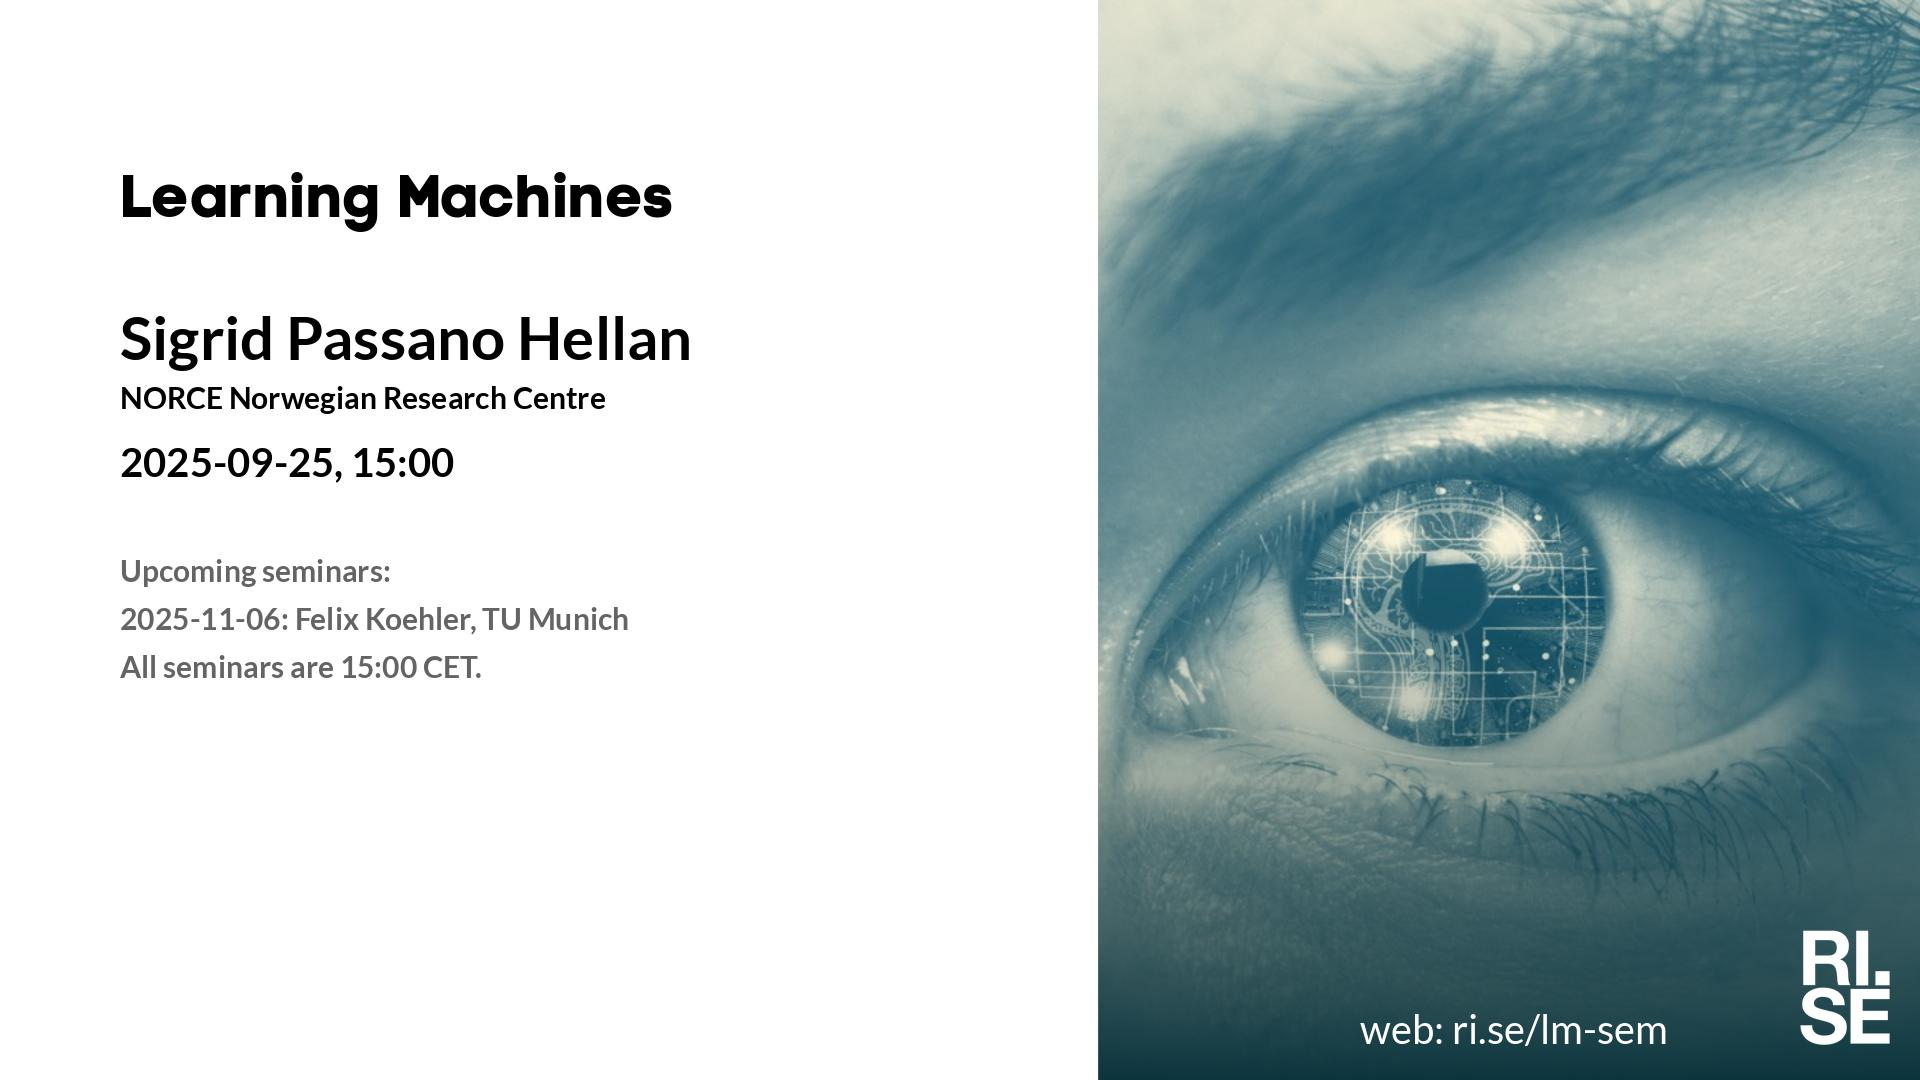
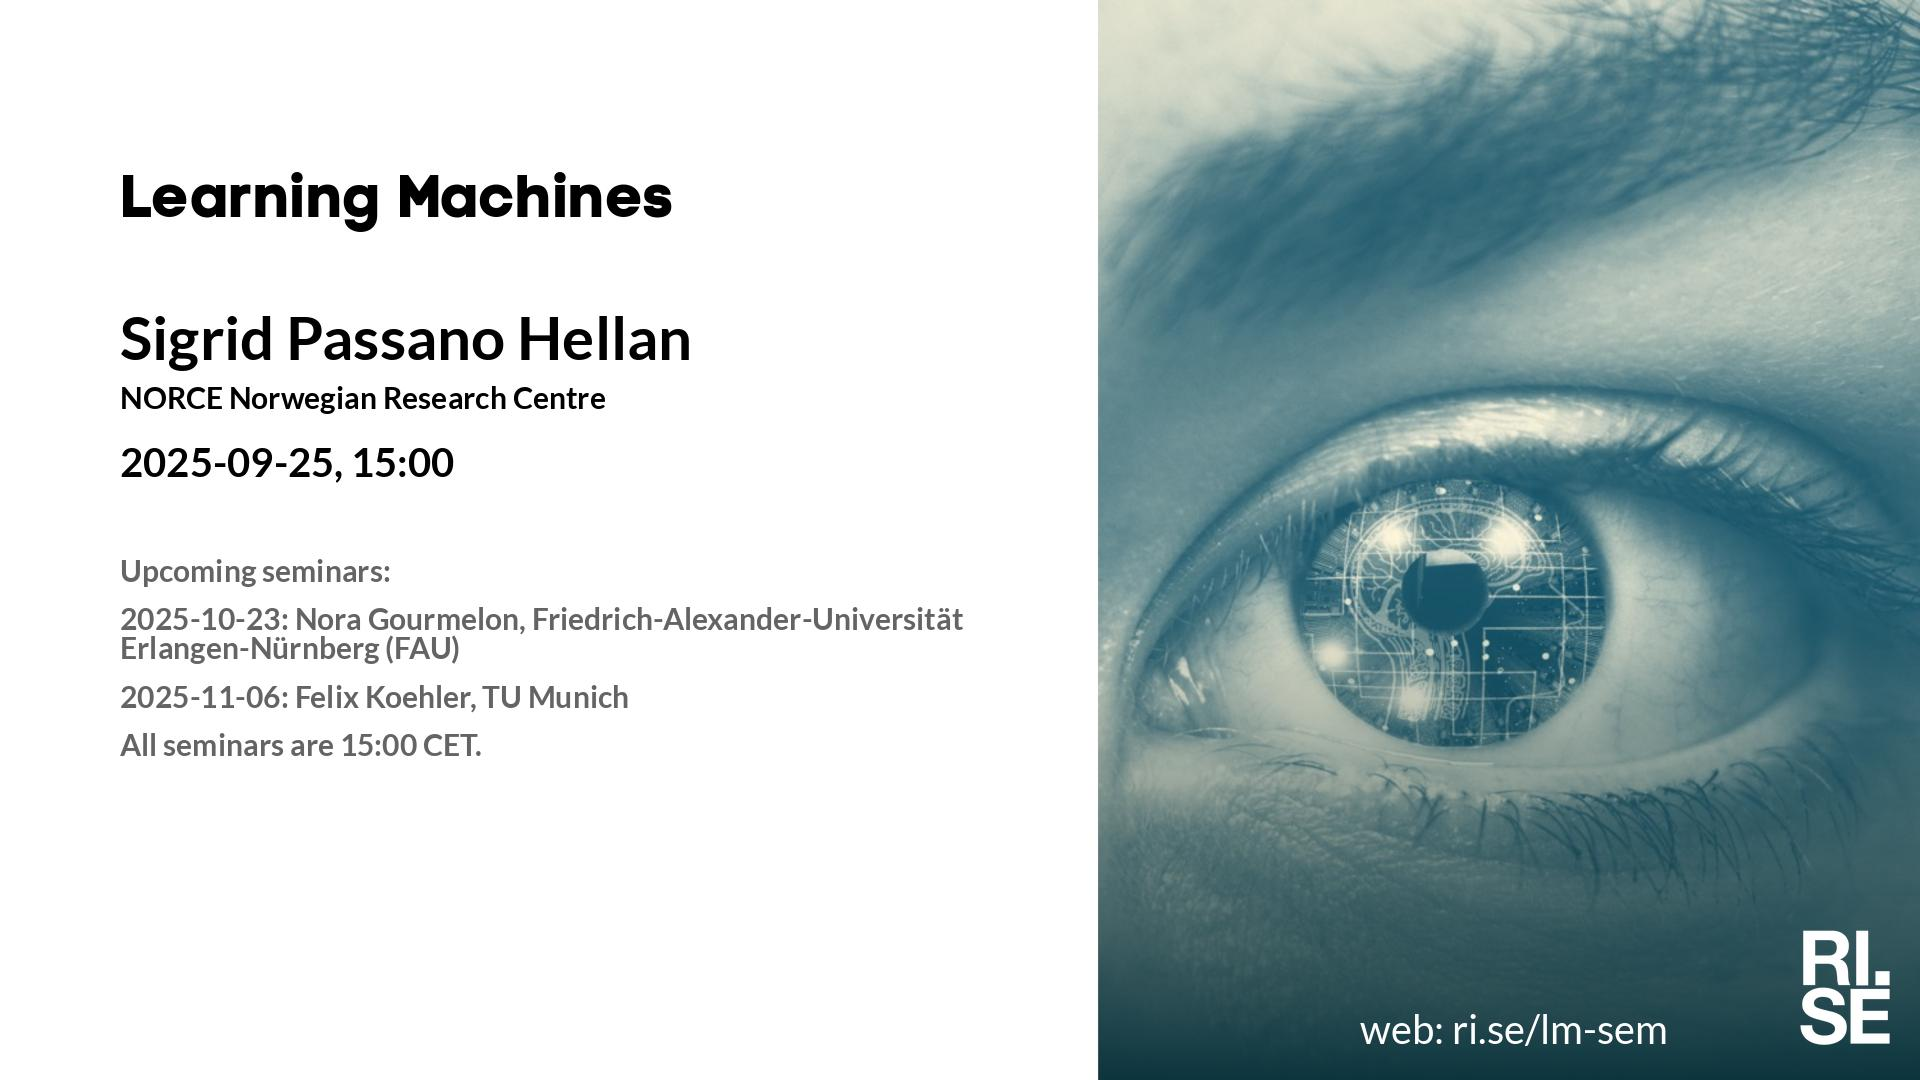
Updated plan on web site.

Changed region(s): [[0.0625, 0.55, 0.5, 0.7028]]

diff --git a/lm/2025.md b/lm/2025.md
@@ -36,7 +36,7 @@ table {border-collapse: collapse;}
 | <span style="color:grey"> 2025-09-11 </span> | <span style="color:grey"> Natalie E. ? </span> | <span style="color:grey">  </span> | <span style="color:grey">  </span> | <span style="color:grey">  </span> | <span style="color:grey">  </span> | <span style="color:grey"> S~~TABP~~ </span> |
 |  2025-09-25  |  [Sigrid Passano Hellan, NORCE Norwegian Research Centre](2025-09-25.md)  |  [photo](2025-09-25-photo-sigrid-passano-hellan.jpg)  |  [social media ](2025-09-25-social-media-sigrid-passano-hellan.jpg)  |  [meeting backdrop ](2025-09-25-meeting-backdrop-sigrid-passano-hellan.jpg)  |  [youtube thumbnail ](2025-09-25-youtube-thumbnail-sigrid-passano-hellan.jpg)  |  S~~TA~~BP  |
 | <span style="color:purple"> 2025-10-09 </span> | <span style="color:purple"> *Up for grabs!!!* </span> | <span style="color:purple">  </span> | <span style="color:purple">  </span> | <span style="color:purple">  </span> | <span style="color:purple">  </span> | <span style="color:purple"> ~~STABP~~ </span> |
-| <span style="color:grey"> 2025-10-23 </span> | <span style="color:grey"> Nora G. ? </span> | <span style="color:grey">  </span> | <span style="color:grey">  </span> | <span style="color:grey">  </span> | <span style="color:grey">  </span> | <span style="color:grey"> ST~~ABP~~ </span> |
+|  2025-10-23  |  [Nora Gourmelon, Friedrich-Alexander-Universität Erlangen-Nürnberg (FAU)](2025-10-23.md)  |    |  [social media ](2025-10-23-social-media-nora-gourmelon.jpg)  |  [meeting backdrop ](2025-10-23-meeting-backdrop-nora-gourmelon.jpg)  |  [youtube thumbnail ](2025-10-23-youtube-thumbnail-nora-gourmelon.jpg)  |  ST~~ABP~~  |
 |  2025-11-06  |  [Felix Koehler, TU Munich](2025-11-06.md)  |  [photo](2025-11-06-photo-felix-koehler.jpg)  |  [social media ](2025-11-06-social-media-felix-koehler.jpg)  |  [meeting backdrop ](2025-11-06-meeting-backdrop-felix-koehler.jpg)  |  [youtube thumbnail ](2025-11-06-youtube-thumbnail-felix-koehler.jpg)  |  S~~TAB~~P  |
 | <span style="color:purple"> 2025-11-20 </span> | <span style="color:purple"> *Up for grabs!!!* </span> | <span style="color:purple">  </span> | <span style="color:purple">  </span> | <span style="color:purple">  </span> | <span style="color:purple">  </span> | <span style="color:purple"> ~~STABP~~ </span> |
 | <span style="color:purple"> 2025-12-04 </span> | <span style="color:purple"> *Up for grabs!!!* </span> | <span style="color:purple">  </span> | <span style="color:purple">  </span> | <span style="color:purple">  </span> | <span style="color:purple">  </span> | <span style="color:purple"> ~~STABP~~ </span> |

diff --git a/lm/index.md b/lm/index.md
@@ -36,7 +36,7 @@ table {border-collapse: collapse;}
 | <span style="color:grey"> 2025-09-11 </span> | <span style="color:grey"> Natalie E. ? </span> | <span style="color:grey">  </span> | <span style="color:grey">  </span> | <span style="color:grey">  </span> | <span style="color:grey">  </span> | <span style="color:grey"> S~~TABP~~ </span> |
 |  2025-09-25  |  [Sigrid Passano Hellan, NORCE Norwegian Research Centre](2025-09-25.md)  |  [photo](2025-09-25-photo-sigrid-passano-hellan.jpg)  |  [social media ](2025-09-25-social-media-sigrid-passano-hellan.jpg)  |  [meeting backdrop ](2025-09-25-meeting-backdrop-sigrid-passano-hellan.jpg)  |  [youtube thumbnail ](2025-09-25-youtube-thumbnail-sigrid-passano-hellan.jpg)  |  S~~TA~~BP  |
 | <span style="color:purple"> 2025-10-09 </span> | <span style="color:purple"> *Up for grabs!!!* </span> | <span style="color:purple">  </span> | <span style="color:purple">  </span> | <span style="color:purple">  </span> | <span style="color:purple">  </span> | <span style="color:purple"> ~~STABP~~ </span> |
-| <span style="color:grey"> 2025-10-23 </span> | <span style="color:grey"> Nora G. ? </span> | <span style="color:grey">  </span> | <span style="color:grey">  </span> | <span style="color:grey">  </span> | <span style="color:grey">  </span> | <span style="color:grey"> ST~~ABP~~ </span> |
+|  2025-10-23  |  [Nora Gourmelon, Friedrich-Alexander-Universität Erlangen-Nürnberg (FAU)](2025-10-23.md)  |    |  [social media ](2025-10-23-social-media-nora-gourmelon.jpg)  |  [meeting backdrop ](2025-10-23-meeting-backdrop-nora-gourmelon.jpg)  |  [youtube thumbnail ](2025-10-23-youtube-thumbnail-nora-gourmelon.jpg)  |  ST~~ABP~~  |
 |  2025-11-06  |  [Felix Koehler, TU Munich](2025-11-06.md)  |  [photo](2025-11-06-photo-felix-koehler.jpg)  |  [social media ](2025-11-06-social-media-felix-koehler.jpg)  |  [meeting backdrop ](2025-11-06-meeting-backdrop-felix-koehler.jpg)  |  [youtube thumbnail ](2025-11-06-youtube-thumbnail-felix-koehler.jpg)  |  S~~TAB~~P  |
 | <span style="color:purple"> 2025-11-20 </span> | <span style="color:purple"> *Up for grabs!!!* </span> | <span style="color:purple">  </span> | <span style="color:purple">  </span> | <span style="color:purple">  </span> | <span style="color:purple">  </span> | <span style="color:purple"> ~~STABP~~ </span> |
 | <span style="color:purple"> 2025-12-04 </span> | <span style="color:purple"> *Up for grabs!!!* </span> | <span style="color:purple">  </span> | <span style="color:purple">  </span> | <span style="color:purple">  </span> | <span style="color:purple">  </span> | <span style="color:purple"> ~~STABP~~ </span> |

diff --git a/lm/statistics-2025.md b/lm/statistics-2025.md
@@ -10,11 +10,11 @@ title: Learning Machines Statistics 2025
 
 
 
-## 18 speakers
+## 19 speakers
 
-Abdul Shaamala, Abdulhakim Abdi, Amal Nammouchi, Atakan Aral, Beici Liang, Benjamin Cretois, Felix Koehler, Ghjulia Sialelli, John Martinsson, Lily Xu, Markus Pettersson, María J. Molina, Newton Mwai Kinyanjui, Oriol Nieto, Oscar Täckström, Peter Dueben, Sherrie Wang, Sigrid Passano Hellan
+Abdul Shaamala, Abdulhakim Abdi, Amal Nammouchi, Atakan Aral, Beici Liang, Benjamin Cretois, Felix Koehler, Ghjulia Sialelli, John Martinsson, Lily Xu, Markus Pettersson, María J. Molina, Newton Mwai Kinyanjui, Nora Gourmelon, Oriol Nieto, Oscar Täckström, Peter Dueben, Sherrie Wang, Sigrid Passano Hellan
 
-## 17 affiliations
+## 18 affiliations
 
-Adobe, Chalmers University of Technology, Columbia University, ETH Zurich, Epidemic sound, European Centre for Medium-Range Weather Forecasts, Karlstad University and AfriClimate AI, Lund University, MIT, NORCE Norwegian Research Centre, Norwegian Institute for Nature Research, Queensland University of Technology, RISE and Lund University, Sana Labs, TU Munich, University of Maryland, University of Vienna
+Adobe, Chalmers University of Technology, Columbia University, ETH Zurich, Epidemic sound, European Centre for Medium-Range Weather Forecasts, Friedrich-Alexander-Universität Erlangen-Nürnberg (FAU), Karlstad University and AfriClimate AI, Lund University, MIT, NORCE Norwegian Research Centre, Norwegian Institute for Nature Research, Queensland University of Technology, RISE and Lund University, Sana Labs, TU Munich, University of Maryland, University of Vienna
 

diff --git a/lm/2025-10-23.md b/lm/2025-10-23.md
@@ -1,0 +1,30 @@
+---
+layout: default
+metatags: "<meta name=\"robots\" content=\"noindex,nofollow\" />"
+---
+ 
+Welcome to this week's Learning Machines seminar.
+
+**Title:** Self-supervised pre-training for glacier calving front extraction from synthetic aperture radar imagery
+
+**Speaker:** Nora Gourmelon, Friedrich-Alexander-Universität Erlangen-Nürnberg (FAU)
+
+**Abstract:** N/A
+
+**About the speaker:** N/A
+
+**Location:** This is an online seminar. Connect using Zoom.
+
+**Date:** 2025-10-23 15:00
+
+**Zoom link:** [https://rise.zoom.us/j/69691371971?pwd=waoqEp3CTaUIf12qGJH3phZ0nzk6Oa.1](https://rise.zoom.us/j/69691371971?pwd=waoqEp3CTaUIf12qGJH3phZ0nzk6Oa.1)
+
+**Upcoming seminars:**
+
+* 2025-11-06: Felix Koehler, TU Munich
+* All seminars are 15:00 CET.
+
+More information and coming seminars: [https://ri.se/lm-sem](https://ri.se/lm-sem)
+
+-- The Learning Machines Team
+

diff --git a/lm/2025-09-25.md b/lm/2025-09-25.md
@@ -21,6 +21,7 @@ Welcome to this week's Learning Machines seminar.
 
 **Upcoming seminars:**
 
+* 2025-10-23: Nora Gourmelon, Friedrich-Alexander-Universität Erlangen-Nürnberg (FAU)
 * 2025-11-06: Felix Koehler, TU Munich
 * All seminars are 15:00 CET.
 
